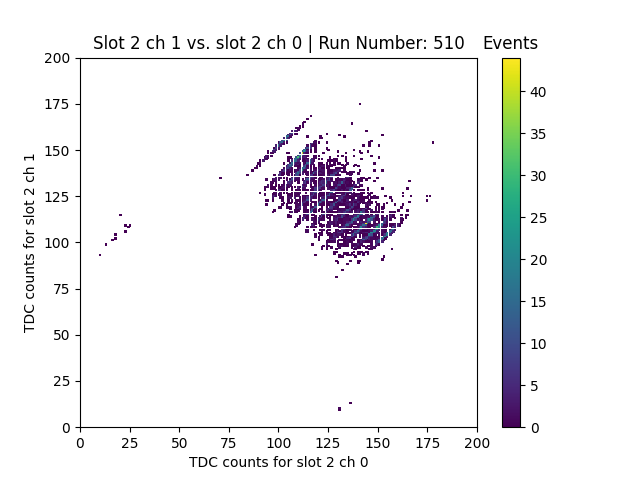
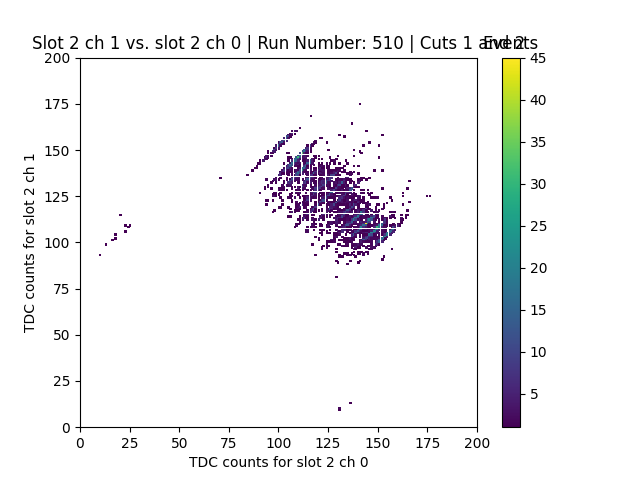
working annotation and cleaned up cut versions

diff --git a/CrateAnalysis/myAnalysisExample.py b/CrateAnalysis/myAnalysisExample.py
@@ -196,7 +196,7 @@ def main(argv):
         # histAllChannels,
         # histAllChannelSep,
         # myLayer1asym,
-        # myLayer2asym,
+        myLayer2asym,
         # h2dL1_rotate,
         # h2dL2_rotate,
         # hMaker2,
@@ -208,20 +208,34 @@ def main(argv):
     )  #all plots
     modules_og = (mod0, mod1, mod7, mod8, mod9)
     modules_og += modules2
-    # modules = (mod0, mod1, mod7, mod8, hMaker2, h2dL1, tdcHL1)  #tray 1
-    # modules = (mod0, mod1, mod7, mod8, hMaker2, h2dL2, tdcHL2)  #tray 2
-    # modules = (mod0, mod1, mod7, mod8, h2dL1ntrial)
-    # Call the code which actually does the job
-    t0 = datetime.now()
-    # n, newRunRecord = runAnalysisSequence(modules1, inputFiles)
-    n, newRunRecord = runAnalysisSequence(modules_og, inputFiles)
-    #n = updatedRunAnalysisSequence(newRunRecord, modules2, inputFiles)
-    dt = datetime.now() - t0
 
-    # Print a mini summary of event processing
-    print('Processed %d events in %g sec' % (n, dt.total_seconds()))
-    #hitMap.redraw(0,15)
+    # working cuts
+    # t0 = datetime.now()
+    # n, newRunRecord = runAnalysisSequence(modules1, inputFiles)
+    # # n, newRunRecord = runAnalysisSequence(modules_og, inputFiles)
+    # n = updatedRunAnalysisSequence(newRunRecord, modules2, inputFiles)
+    # dt = datetime.now() - t0
+    # print('Processed %d events in %g sec' % (n, dt.total_seconds()))
+
+    processWithCuts(modules1, modules2, inputFiles)
+    processDefault(modules_og, inputFiles)
     return 0
+
+
+def processWithCuts(modules1, modules2, inputFiles):
+    t0 = datetime.now()
+    n, newRunRecord = runAnalysisSequence(modules1, inputFiles)
+    # n, newRunRecord = runAnalysisSequence(modules_og, inputFiles)
+    n = updatedRunAnalysisSequence(newRunRecord, modules2, inputFiles)
+    dt = datetime.now() - t0
+    print('Processed %d events in %g sec' % (n, dt.total_seconds()))
+
+
+def processDefault(modules_og, inputFiles):
+    t0 = datetime.now()
+    n, newRunRecord = runAnalysisSequence(modules_og, inputFiles)  #no cuts
+    dt = datetime.now() - t0
+    print('Processed %d events in %g sec' % (n, dt.total_seconds()))
 
 
 def modChannelIndividualPlotters(tdcChannels):

diff --git a/CrateAnalysis/ChannelOperations.py b/CrateAnalysis/ChannelOperations.py
@@ -17,6 +17,17 @@ class ChannelOperations(DummyModule):
         runConfiguration = runRecord[(runNumber, "runConfiguration")]
         self.tdc_slots = runConfiguration["tdc_slots_3377"]
 
+    def printSpecificData(self, item, eventNumber, eventRecord):
+        print(eventNumber,
+              "Key : {} , Value : {}".format(item, eventRecord[item]))
+        #print(eventNumber,"Value : {}, Len: {}".format(eventRecord.get(item), len(eventRecord.get(item))))
+
+    def printRawDataOutput(self, eventNumber, eventRecord):
+        for item in eventRecord:
+            #print(item)
+            print(eventNumber,
+                  "Key : {} , Value : {}".format(item, eventRecord[item]))
+
     def processEvent(self, runNumber, eventNumber, eventRecord):
         tdcData = eventRecord["unpacked3377Data"]
         lenTDCData = eventRecord["len_unpacked_3377Data"]
@@ -42,6 +53,5 @@ class ChannelOperations(DummyModule):
 
         eventRecord["Layer_1"] = channelOp1
         eventRecord["Layer_2"] = channelOp2
-        #print(eventRecord)
         # self.printRawDataOutput(eventNumber, eventRecord)
         # self.printSpecificData('TDCAnalyzer', eventNumber, eventRecord)

diff --git a/CrateAnalysis/HistoMaker1D.py b/CrateAnalysis/HistoMaker1D.py
@@ -61,7 +61,7 @@ class HistoMaker1D(AbsAnalysisModule):
             ax.grid(True)
             ax.set_xlabel(spec.xlabel)
             ax.set_ylabel("Events")
-            ax.set_title(spec.title)
+            ax.set_title(spec.title + " | " + self.title_string)
         plt.show()
 
     def beginRun(self, runNumber, runInfo):
@@ -104,7 +104,7 @@ class HistoInfo1D(AbsAnalysisModule):
         plt.hist(all_data[1], spec.nbins, alpha=0.5, label='Layer 1 Channel 1')
         plt.xlabel("TDC Counts")
         plt.ylabel("Frequency")
-        plt.title("TDC Values Layer 1")
+        plt.title("TDC Values Layer 1" + " | " + self.title_string)
         plt.legend(loc='upper right')
         plt.show()
 
@@ -112,7 +112,7 @@ class HistoInfo1D(AbsAnalysisModule):
         plt.hist(all_data[3], spec.nbins, alpha=0.5, label='Layer 2 Channel 1')
         plt.xlabel("TDC Counts")
         plt.ylabel("Frequency")
-        plt.title("TDC Values Layer 2")
+        plt.title("TDC Values Layer 2" + " | " + self.title_string)
         plt.legend(loc='upper right')
         plt.show()
 

diff --git a/CrateAnalysis/NoiseCleaner.py b/CrateAnalysis/NoiseCleaner.py
@@ -99,6 +99,8 @@ class NoiseCleaner(DummyModule):
             if isinstance(key[1], int):
                 l1_TDC_val = runRecord.get(key).get("Layer_1").get("add_TDC")
                 l2_TDC_val = runRecord.get(key).get("Layer_2").get("add_TDC")
+                # if runRecord.get(key).get("len_unpacked_3377Data") == 4:
+                # print(runRecord.get(key).get("len_unpacked_3377Data"))
                 if l1_TDC_val is not None:
                     if (l1_TDC_val < ll_l1) or (l1_TDC_val > ul_l1):
                         runRecord.pop(key)

diff --git a/CrateAnalysis/HistoMaker2D.py b/CrateAnalysis/HistoMaker2D.py
@@ -126,7 +126,8 @@ class HistoMaker2D(AbsAnalysisModule):
 
     def beginRun(self, runNumber, runInfo):
         self.runNumber = runNumber
-        self.title = self.title + " | Run Number: " + str(self.runNumber)
+        self.title = self.title + " | Run Number: " + str(
+            self.runNumber) + " | " + self.title_string
         pass
 
     def endRun(self, runNumber, runInfo):

diff --git a/CrateAnalysis/AbsAnalysisModule.py b/CrateAnalysis/AbsAnalysisModule.py
@@ -14,6 +14,7 @@ class AbsAnalysisModule:
         Module names must be unique.
         """
         self.moduleName = name
+        self.title_string = "Cuts 1 and 2"
 
     def beginJob(self, allModuleNames):
         """
